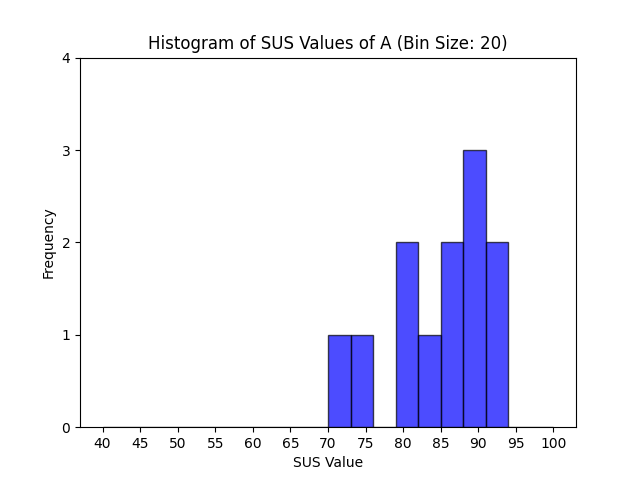
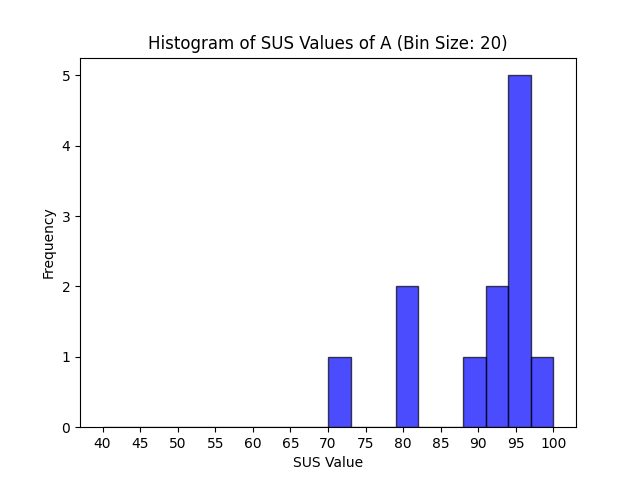
plots

diff --git a/code/study_analysis/data_analysis.py b/code/study_analysis/data_analysis.py
@@ -10,7 +10,7 @@ from scipy.stats import ttest_rel
 path_to_analysis = 'C:/Users/nisha/OneDrive/Desktop/ETH/human_computer_interaction/hci-project-hci2023-group-16/code/study_analysis'
 
 # make dataframe from csv file containing all study results 
-file_path = path_to_analysis + '/user_study_data.csv'
+file_path = path_to_analysis + '/user_study_2_data.csv'
 df = pd.read_csv(file_path)
 
 
@@ -82,7 +82,7 @@ number_of_bins = 20
 # A
 plt.hist(df['sus_a'], range=(40,100), bins=number_of_bins, color='blue', edgecolor='black', alpha=0.7)
 plt.xticks(np.arange(40,101,5))
-plt.yticks(np.arange(0, 5, 1)) 
+plt.yticks(np.arange(0, 6, 1)) 
 plt.xlabel('SUS Value')
 plt.ylabel('Frequency')
 plt.title(f'Histogram of SUS Values of A (Bin Size: {number_of_bins})')
@@ -93,7 +93,7 @@ plt.close()
 # B
 plt.hist(df['sus_b'], range=(40,100), bins=number_of_bins, color='red', edgecolor='black', alpha=0.7)
 plt.xticks(np.arange(40,101,5))
-plt.yticks(np.arange(0, 5, 1)) 
+plt.yticks(np.arange(0, 6, 1)) 
 plt.xlabel('SUS Value')
 plt.ylabel('Frequency')
 plt.title(f'Histogram of SUS Values of B (Bin Size: {number_of_bins})')
@@ -139,11 +139,11 @@ stddev_sus = [std_sus_value_a, std_sus_value_b]
 
 ##### 2. Dependent variable: Time needed to select a group
 
-number_of_bins = 24
+number_of_bins = 12
 
 # A
-plt.hist(df['time_a'], range=(0,120), bins=number_of_bins, color='blue', edgecolor='black', alpha=0.7)
-plt.xticks(np.arange(0,121,5))
+plt.hist(df['time_a'], range=(0,60), bins=number_of_bins, color='blue', edgecolor='black', alpha=0.7)
+plt.xticks(np.arange(0,61,5))
 plt.yticks(np.arange(0, 5, 1)) 
 plt.xlabel('Time Needed to Select a Group')
 plt.ylabel('Frequency')
@@ -153,8 +153,8 @@ plt.savefig(path_to_analysis + '/histogram_time_A')
 plt.close()
 
 # B
-plt.hist(df['time_b'], range=(0,120), bins=number_of_bins, color='red', edgecolor='black', alpha=0.7)
-plt.xticks(np.arange(0,121,5))
+plt.hist(df['time_b'], range=(0,60), bins=number_of_bins, color='red', edgecolor='black', alpha=0.7)
+plt.xticks(np.arange(0,61,5))
 plt.yticks(np.arange(0, 5, 1)) 
 plt.xlabel('Time Needed to Select a Group')
 plt.ylabel('Frequency')
@@ -201,12 +201,12 @@ stddev_time = [std_time_value_a, std_time_value_b]
 
 ##### 3. Dependent variable: Amount of interactions the user has to do ()
 
-number_of_bins = 18
+number_of_bins = 7
 
 # A
-plt.hist(df['gesture_count_a'], range=(0,91), bins=number_of_bins, color='blue', edgecolor='black', alpha=0.7)
-plt.xticks(np.arange(0,90,5))
-plt.yticks(np.arange(0, 6, 1)) 
+plt.hist(df['gesture_count_a'], range=(0,35), bins=number_of_bins, color='blue', edgecolor='black', alpha=0.7)
+plt.xticks(np.arange(0,35,5))
+plt.yticks(np.arange(0, 10, 1)) 
 plt.xlabel('Gesture Count')
 plt.ylabel('Frequency')
 plt.title(f'Histogram of Gesture Count in A Test (Bin Size: {number_of_bins})')
@@ -215,9 +215,9 @@ plt.savefig(path_to_analysis + '/histogram_gesture_count_A')
 plt.close()
 
 # B
-plt.hist(df['gesture_count_b'], range=(0,91), bins=number_of_bins, color='red', edgecolor='black', alpha=0.7)
-plt.xticks(np.arange(0,90,5))
-plt.yticks(np.arange(0, 6, 1)) 
+plt.hist(df['gesture_count_b'], range=(0,35), bins=number_of_bins, color='red', edgecolor='black', alpha=0.7)
+plt.xticks(np.arange(0,35,5))
+plt.yticks(np.arange(0, 10, 1)) 
 plt.xlabel('Gesture Count')
 plt.ylabel('Frequency')
 plt.title(f'Histogram of Gesture Count in B Test (Bin Size: {number_of_bins})')
@@ -247,7 +247,7 @@ levene_test_gesture_count_both = levene(df['gesture_count_a'],df['gesture_count_
 
 
 # Do paired t-test
-wilcoxon_res_gesture_count = wilcoxon(df['gesture_count_a'], df['gesture_count_b'])
+ttest_res_gesture_count = ttest_rel(df['gesture_count_a'], df['gesture_count_b'])
 
 
 # Calculate useful metrics
@@ -384,8 +384,8 @@ with open(path_to_analysis + '/results.md', 'w') as file:
     file.write('p val of Levene test for gesture_count_a vs gesture_count_b: ' + str(np.round(levene_test_gesture_count_both[1],3)) + '\n\n')
 
     file.write('#### Result of Paired Students t-test:\n\n')
-    file.write('Z val of Wilcoxon Signed Rank Test on gesutre_count_a vs gesture_count_b: ' + str(np.round(wilcoxon_res_gesture_count[0],3)) + '\n\n')
-    file.write('p val of Wilcoxon Signed Rank Test on gesture_count_a vs gesture_count_b: ' + str(np.round(wilcoxon_res_gesture_count[1],3)) + '\n\n')
+    file.write('DOF val of paired t-test on gesutre_count_a vs gesture_count_b: ' + str(np.round(ttest_res_gesture_count[0],3)) + '\n\n')
+    file.write('p val of paired t-test on gesture_count_a vs gesture_count_b: ' + str(np.round(ttest_res_gesture_count[1],3)) + '\n\n')
     
     file.write('#### Other Useful Metrics:\n\n')
     file.write('Average gesture_count_a: ' + str(np.round(avg_gesture_count_value_a,3)) + ' and standard deviation: ' + str(np.round(std_gesture_count_value_a,3)) + '\n\n')

diff --git a/code/study_analysis/results.md b/code/study_analysis/results.md
@@ -3,46 +3,46 @@
 ### Demographics
 <img src="demographics_plots.png" alt="Distribution of SUS Values in A Test" width="400"/>
 
-Average Age: 22.9
+Average Age: 22.3
 
-Median Age: 23.0
+Median Age: 21.5
 
-Average Tinder Familiarity: 2.6
+Average Tinder Familiarity: 2.5
 
-Average Planning Frequency: 3.1
+Average Planning Frequency: 2.8
 
-Average self-initiated lunch frequency: 2.8
+Average self-initiated lunch frequency: 2.5
 
 ### First Dependent Variable: SUS Values
 NH1: The swiping feature instead of the button accept feature has no impact on the SUS value of the user.
 
 #### Distribution of SUS Values in A Test
-Result of Shapiro-Wilke Test A: p-value: 0.217
+Result of Shapiro-Wilke Test A: p-value: 0.005
 <img src="histogram_sus_values_A.png" alt="Distribution of SUS Values in A Test" width="400"/>
 
 #### Distribution of SUS Values in B Test
-Result of Shapiro-Wilke Test B: p-value: 0.576
+Result of Shapiro-Wilke Test B: p-value: 0.021
 <img src="histogram_sus_values_B.png" alt="Distribution of SUS Values in B Test" width="400"/>
 
 #### Results of Levene Tests:
 
-p val of Levene test for sus_a (started with A vs started with B): 0.795
+p val of Levene test for sus_a (started with A vs started with B): 0.843
 
-p val of Levene test for sus_b (started with A vs started with B): 1.0
+p val of Levene test for sus_b (started with A vs started with B): 0.88
 
-p val of Levene test for sus_a vs sus_b: 0.006
+p val of Levene test for sus_a vs sus_b: 0.42
 
 #### Result of Wilcoxon Signed Rank Test:
 
-Z val of Wilcoxon Signed Rank Test on sus_a vs sus_b: 7.0
+Z val of Wilcoxon Signed Rank Test on sus_a vs sus_b: 13.0
 
-p val of Wilcoxon Test on sus_a vs sus_b: 0.009
+p val of Wilcoxon Test on sus_a vs sus_b: 0.136
 
 #### Other Useful Metrics:
 
-Average sus_a: 84.583 and standard deviation: 7.217
+Average sus_a: 90.0 and standard deviation: 7.977
 
-Average sus_b: 64.5 and standard deviation: 17.129
+Average sus_b: 82.917 and standard deviation: 10.967
 
 ### Second Dependent Variable: Time Needed to Select a Group
 NH2: The swiping feature instead of the button accept feature has no impact on the time needed to select a group.
@@ -51,31 +51,31 @@ NH2: The swiping feature instead of the button accept feature has no impact on t
 <img src="histogram_time_A.png" alt="Distribution of Time Needed to Select a Group in A Test" width="400"/>
 
 Result of Shapiro-Wilke Test A
-p-value: 0.091
+p-value: 0.14
 #### Distribution of Time Needed to Select a Group in B Test
 <img src="histogram_time_B.png" alt="Distribution of Time Needed to Select a Group in B Test" width="400"/>
 
 Result of Shapiro-Wilke Test B
-p-value: 0.329
+p-value: 0.121
 #### Results of Levene Tests:
 
-p val of Levene test for sus_a (started with A vs started with B): 0.013
+p val of Levene test for sus_a (started with A vs started with B): 0.02
 
-p val of Levene test for sus_b (started with A vs started with B): 0.214
+p val of Levene test for sus_b (started with A vs started with B): 0.131
 
-p val of Levene test for sus_a vs sus_b: 0.078
+p val of Levene test for sus_a vs sus_b: 0.077
 
 #### Result of Paired Students t-test:
 
-DOF val of Paired Students t-test on time_a vs time_b: 0.825
+DOF val of Paired Students t-test on time_a vs time_b: -1.755
 
-p val of Paired Students t-test on time_a vs time_b: 0.427
+p val of Paired Students t-test on time_a vs time_b: 0.107
 
 #### Other Useful Metrics:
 
-Average time_a: 39.75 and standard deviation: 30.317
+Average time_a: 22.333 and standard deviation: 12.745
 
-Average time_b: 32.667 and standard deviation: 10.43
+Average time_b: 30.417 and standard deviation: 21.073
 
 ### Third Dependent Variable: Gesture Count
 NH3: The swiping feature instead of the button accept feature has no impact on the amount of interactions (i.e., taps/swipes) the user has to do.
@@ -84,31 +84,31 @@ NH3: The swiping feature instead of the button accept feature has no impact on t
 <img src="histogram_gesture_count_A.png" alt="Distribution of Gesute Counts in A Test" width="400"/>
 
 Result of Shapiro-Wilke Test A
-p-value: 0.022
+p-value: 0.334
 #### Distribution of Gesture Counts in B Test
 <img src="histogram_gesture_count_B.png" alt="Distribution of Gesture Counts in B Test" width="400"/>
 
 Result of Shapiro-Wilke Test B
-p-value: 0.329
+p-value: 0.121
 #### Results of Levene Tests:
 
-p val of Levene test for gesture_count_a (started with A vs started with B): 0.31
+p val of Levene test for gesture_count_a (started with A vs started with B): 0.069
 
-p val of Levene test for gesture_count_b (started with A vs started with B): 0.694
+p val of Levene test for gesture_count_b (started with A vs started with B): 0.005
 
-p val of Levene test for gesture_count_a vs gesture_count_b: 0.093
+p val of Levene test for gesture_count_a vs gesture_count_b: 0.577
 
 #### Result of Paired Students t-test:
 
-Z val of Wilcoxon Signed Rank Test on gesutre_count_a vs gesture_count_b: 13.5
+DOF val of paired t-test on gesutre_count_a vs gesture_count_b: 2.487
 
-p val of Wilcoxon Signed Rank Test on gesture_count_a vs gesture_count_b: 0.052
+p val of paired t-test on gesture_count_a vs gesture_count_b: 0.03
 
 #### Other Useful Metrics:
 
-Average gesture_count_a: 28.583 and standard deviation: 20.002
+Average gesture_count_a: 13.417 and standard deviation: 5.775
 
-Average gesture_count_b: 17.0 and standard deviation: 6.252
+Average gesture_count_b: 9.583 and standard deviation: 4.1
 
 #### Means and Standard Deviations of the 3 Variables
 <img src="all_means_plots.png" alt="All Means" width="400"/>
